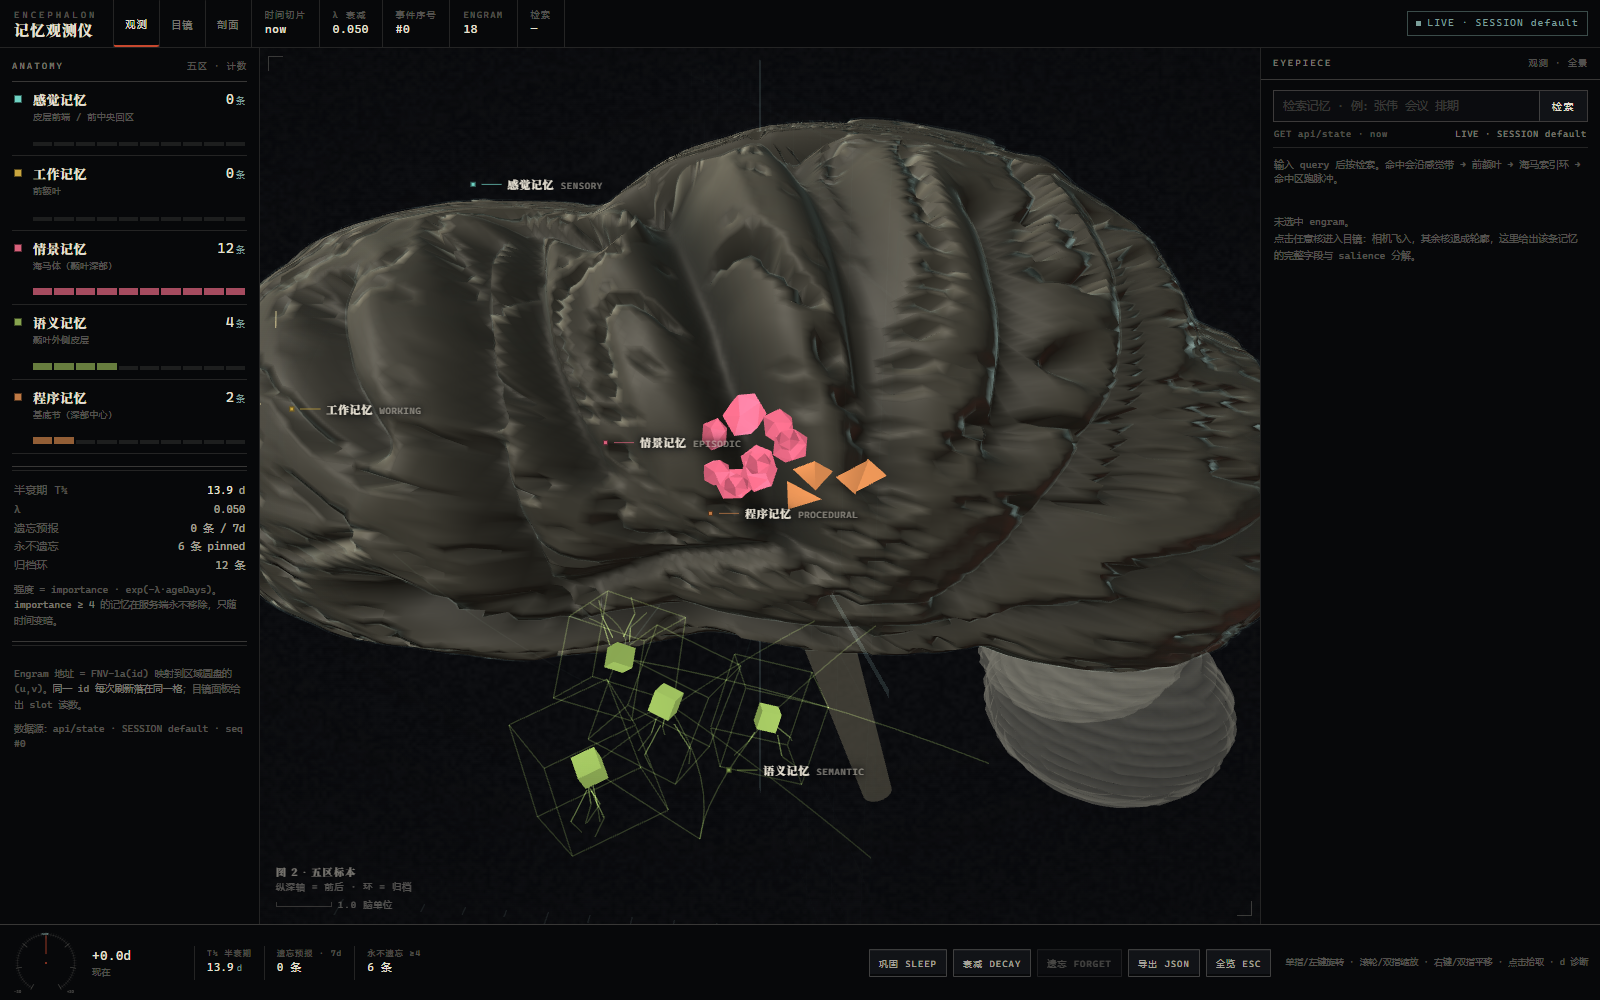
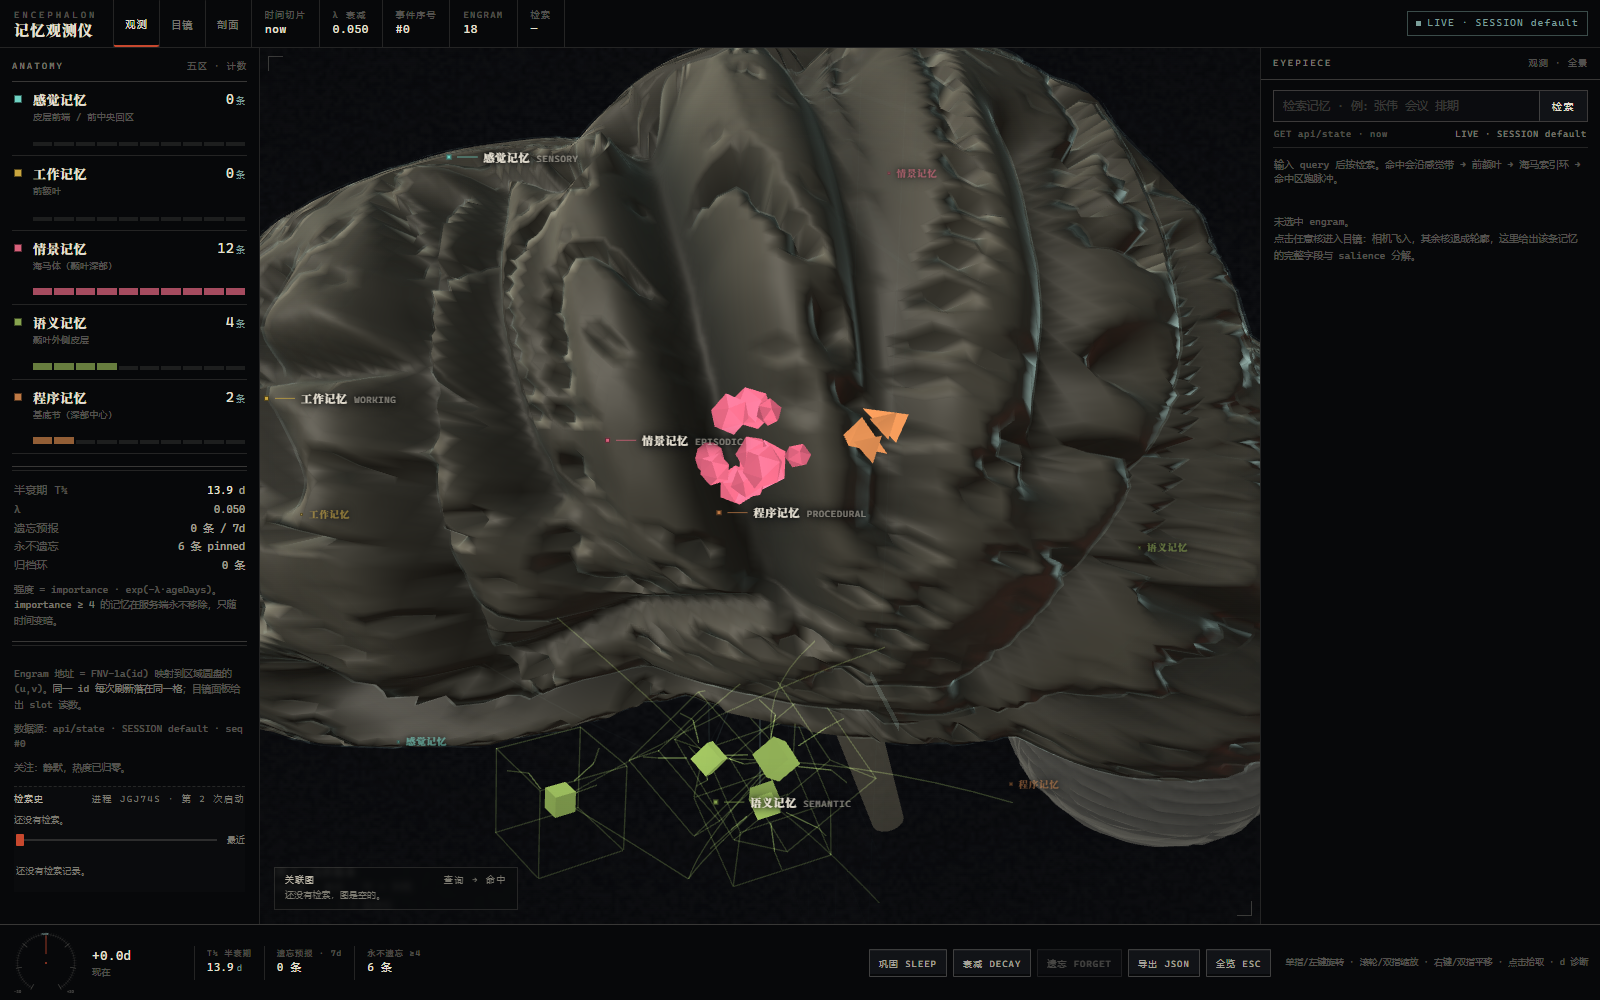
feat(3d): 极部短支骨架（只开槽、不参与相位融合）

diff --git a/dist/deepseek-brain-3d.html b/dist/deepseek-brain-3d.html
@@ -1064,6 +1064,12 @@ globalThis.THREE=Object.freeze({ACESFilmicToneMapping:nt,AddEquation:M,AddOperat
     /* 枕叶 */
     { id: 'parieto',       w: 0.052, depth: 0.80, pts: [[0.10, 0.70, -0.52], [0.38, 0.48, -0.56], [0.66, 0.20, -0.52], [0.86, -0.06, -0.44]] },
     { id: 'calcarine',     w: 0.046, depth: 0.70, pts: [[0.20, 0.06, -0.84], [0.46, 0.02, -0.80], [0.72, -0.04, -0.72]] },
+    /* 极部短支：让额极/颞极/枕极「折进去」，而不是鼓成一个光面 */
+    { id: 'frontal-pole-a', w: 0.044, depth: 0.66, phase: false, pts: [[0.26, 0.34, 0.90], [0.52, 0.52, 0.78], [0.74, 0.66, 0.58]] },
+    { id: 'frontal-pole-b', w: 0.040, depth: 0.58, phase: false, pts: [[0.14, 0.06, 0.96], [0.40, 0.10, 0.90], [0.66, 0.20, 0.76]] },
+    { id: 'temporal-pole',  w: 0.042, depth: 0.62, phase: false, pts: [[0.52, -0.68, 0.66], [0.36, -0.52, 0.82], [0.18, -0.34, 0.92]] },
+    { id: 'occipital-pole', w: 0.042, depth: 0.60, phase: false, pts: [[0.24, -0.20, -0.92], [0.50, -0.04, -0.86], [0.72, 0.14, -0.70]] },
+
     /* 内侧面（剖面才看得见） */
     { id: 'cingulate',     w: 0.044, depth: 0.66, pts: [[0.06, 0.74, 0.42], [0.10, 0.32, 0.10], [0.12, -0.08, -0.26]] }
   ];
@@ -1110,6 +1116,7 @@ globalThis.THREE=Object.freeze({ACESFilmicToneMapping:nt,AddEquation:M,AddOperat
       }
       if (best < d1) { d2 = d1; d1 = best; bestW = sk.w; bestD = sk.depth; }
       else if (best < d2) { d2 = best; }
+      if (sk.phase === false) continue;
       var r = best / 0.30;
       var wk = Math.exp(-r * r);
       accW += wk;

diff --git a/web/brain-3d.html b/web/brain-3d.html
@@ -1052,6 +1052,12 @@
     /* 枕叶 */
     { id: 'parieto',       w: 0.052, depth: 0.80, pts: [[0.10, 0.70, -0.52], [0.38, 0.48, -0.56], [0.66, 0.20, -0.52], [0.86, -0.06, -0.44]] },
     { id: 'calcarine',     w: 0.046, depth: 0.70, pts: [[0.20, 0.06, -0.84], [0.46, 0.02, -0.80], [0.72, -0.04, -0.72]] },
+    /* 极部短支：让额极/颞极/枕极「折进去」，而不是鼓成一个光面 */
+    { id: 'frontal-pole-a', w: 0.044, depth: 0.66, phase: false, pts: [[0.26, 0.34, 0.90], [0.52, 0.52, 0.78], [0.74, 0.66, 0.58]] },
+    { id: 'frontal-pole-b', w: 0.040, depth: 0.58, phase: false, pts: [[0.14, 0.06, 0.96], [0.40, 0.10, 0.90], [0.66, 0.20, 0.76]] },
+    { id: 'temporal-pole',  w: 0.042, depth: 0.62, phase: false, pts: [[0.52, -0.68, 0.66], [0.36, -0.52, 0.82], [0.18, -0.34, 0.92]] },
+    { id: 'occipital-pole', w: 0.042, depth: 0.60, phase: false, pts: [[0.24, -0.20, -0.92], [0.50, -0.04, -0.86], [0.72, 0.14, -0.70]] },
+
     /* 内侧面（剖面才看得见） */
     { id: 'cingulate',     w: 0.044, depth: 0.66, pts: [[0.06, 0.74, 0.42], [0.10, 0.32, 0.10], [0.12, -0.08, -0.26]] }
   ];
@@ -1098,6 +1104,7 @@
       }
       if (best < d1) { d2 = d1; d1 = best; bestW = sk.w; bestD = sk.depth; }
       else if (best < d2) { d2 = best; }
+      if (sk.phase === false) continue;
       var r = best / 0.30;
       var wk = Math.exp(-r * r);
       accW += wk;

diff --git a/README.md b/README.md
@@ -384,7 +384,8 @@ node tools/build-3d.mjs      # 生成 dist/deepseek-brain-3d.html
   - 一级沟：`d1≈0` 处按各自宽度开深槽 `exp(−(d1/w)²)·depth`；
   - 次级沟：相位 = 加权平均的 `(弧长·1.05 + d·17.0)`，所以脑回走向在两条沟的势力边界上是**平滑过渡**的，不会突然换向；
   - 三级沟：同相位倍频 `2.6×`，压掉同心圆；
-  - **Voronoi 顶冠**：`wall = exp(−((d2−d1)/0.055)²)` 在两条沟的分界线上把皮层抬起来，于是两沟之间是圆隆的脑回顶，而不是平台；
+  - 极部短支（rontal-pole-a/b、	emporal-pole、occipital-pole）只负责开槽、标了 phase: false，不参与相位融合——第一版忘了这一步，极部确实折进去了，但整颗脑也被抹平成光面。
+- **Voronoi 顶冠**：`wall = exp(−((d2−d1)/0.055)²)` 在两条沟的分界线上把皮层抬起来，于是两沟之间是圆隆的脑回顶，而不是平台；
   - **叶区调制**：相位再乘一个由前后位置决定的 `gf = 1 − 0.15·smoothstep(0, 0.90, pz) + 0.20·smoothstep(0.10, −0.85, pz)`——额极更宽（`gf≈0.85`）、枕极更细（`gf≈1.20`），治掉原先「脑回宽度整齐划一」的塑料感。
   合成 `bump = (1−sul)·0.55 + 0.45·warpA + 0.18·wall`，`disp = 1 + 0.094·bump − 0.118·sul`。中央沟与外侧裂因此是真正的分叶深沟，不是画上去的线。
 - 竖屏按 `fit = clamp(1.02/aspect, 1, 1.56)` 把标本拉远；画布宽度小于 720 px 时不再画归档扇区标签（与左栏五区标签重名）。
